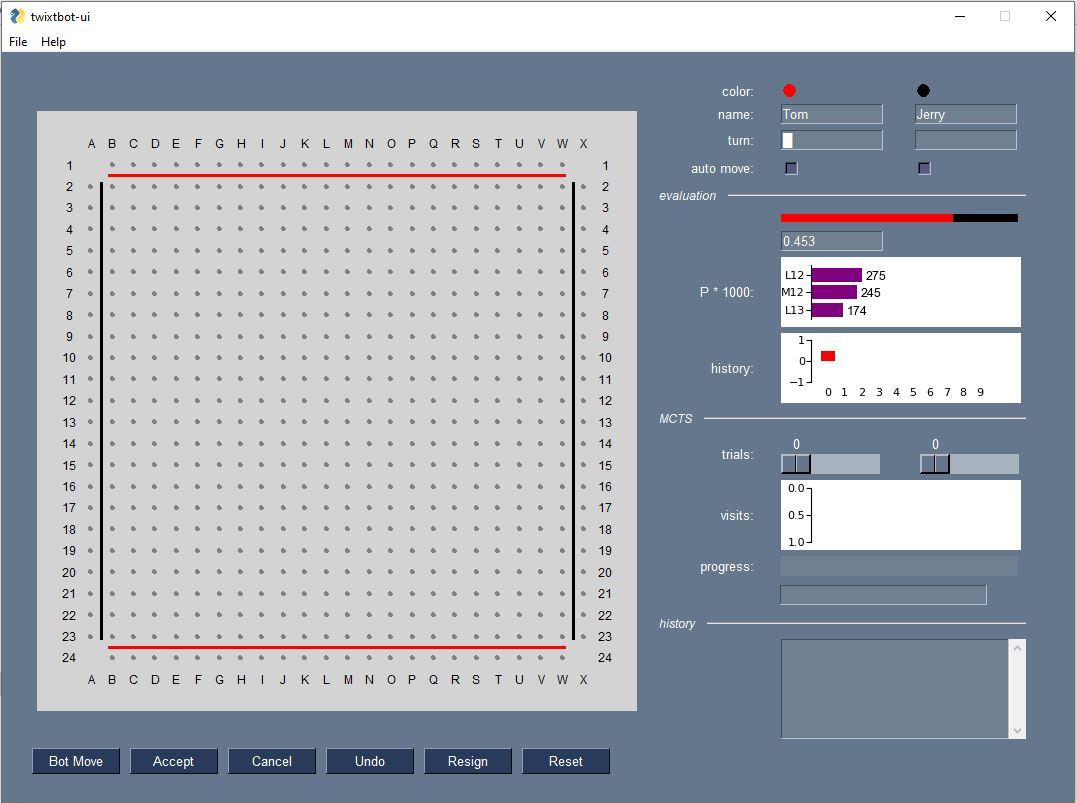
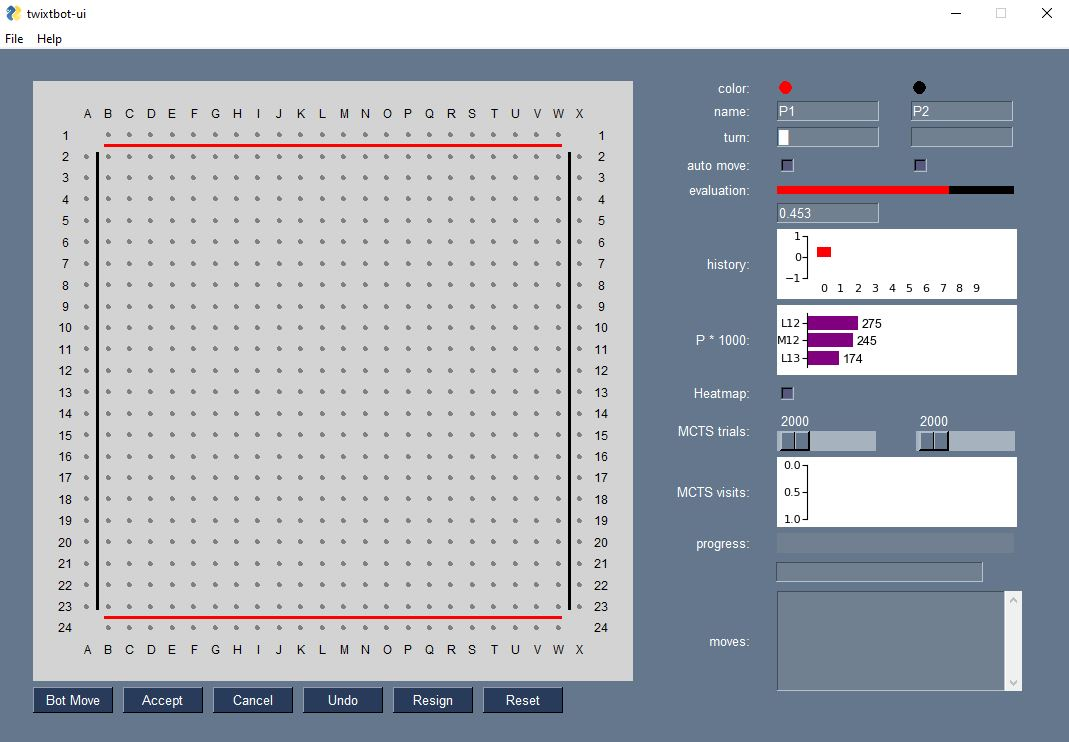
added Heatmap and Save files to README.md (#38)
* added Heatmap and Save files to README.md
* fixed some lint complaints

diff --git a/src/files.py b/src/files.py
@@ -68,12 +68,29 @@ def parse_t1_file(content):
         ValueError: if players or moves data can't be interpreted
 
     Examples:
-        >>> content = ['# File created by T1j', '# T1j is a program to play TwixT (mail@johannes-schwagereit.de)', '1 # version of file-format', 'Player# Name of Player 1', 'Computer# Name of Player 2', '24# y-size of board', '24# x-size of board', 'H# player 1 human or computer', 'C# player 2 human or computer', '1# starting player (1 plays top-down)', 'V# Direction of letters', 'N# pierule?', 'N# game already over?', 'L10', 'L17', 'Q15', 'Q8', 'S12', 'P11', 'O14', 'P19', 'V18', 'U15', 'V16', 'T17', 'U14', 'V17', 'W16', 'W15', 'F16', 'L19', 'F20', 'I14', 'F12', 'X13', 'G14', 'G8', 'I9', 'J9', 'J7', 'E9', 'G10', 'N18', 'J3', 'G20', 'G18', 'E21']
+        >>> content = [
+            '# File created by T1j',
+            '# T1j is a program to play TwixT (mail@johannes-schwagereit.de)',
+            '1 # version of file-format',
+            'Player# Name of Player 1',
+            'Computer# Name of Player 2',
+            '24# y-size of board',
+            '24# x-size of board',
+            'H# player 1 human or computer',
+            'C# player 2 human or computer',
+            '1# starting player (1 plays top-down)',
+            'V# Direction of letters',
+            'N# pierule?',
+            'N# game already over?',
+            'L10', 'L17', 'Q15', 'Q8',  'S12', 'P11', 'O14', 'P19', 'V18', 'U15',
+            'V16', 'T17', 'U14', 'V17', 'W16', 'W15', 'F16', 'L19', 'F20', 'I14',
+            'F12', 'X13', 'G14', 'G8',  'I9',  'J9',  'J7',  'E9',  'G10', 'N18',
+            'J3', 'G20', 'G18', 'E21'
+        ]
         >>> parse_t1_file(content)
-        (['Player', 'Computer'],
-         [l10, l17, q15, q8, s12, p11, o14, p19, v18, u15, v16, t17, u14,
-          v17, w16, w15, f16, l19, f20, i14, f12, x13, g14, g8, i9, j9, j7,
-          e9, g10, n18, j3, g20, g18, e21])
+            (['Player', 'Computer'],
+             [l10, l17, q15, q8,  s12, p11, o14, p19, v18, u15, v16, t17, u14, v17, w16, w15, f16, 
+             l19, f20, i14, f12, x13, g14,  g8, i9,  j9, j7, e9, g10, n18, j3, g20, g18, e21])
     """
     MOVES_STARTLINE = 13
     PLAYER_LINES = [3, 4]
@@ -82,13 +99,13 @@ def parse_t1_file(content):
     try:
         players = [content[linenr].split(COMMENT_CHAR)[0]
                    for linenr in PLAYER_LINES]
-    except:
+    except Exception:
         raise ValueError("Can't read player names from T1 file")
 
     try:
         moves = [str2twixt(move) for move in content[MOVES_STARTLINE:]
                  if len(move) > 0]
-    except:
+    except Exception:
         # Just pass on the exception from str2twixt
         raise
 
@@ -108,9 +125,11 @@ def parse_tsgf_file(content):
         ValueError: if players or moves data can't be interpreted
 
     Examples:
-        >>> content = ['(;FF[4]EV[twixt.ld.DEFAULT]PB[agtoever]PW[Jan Krabbenbos]SZ[24]SO[https://www.littlegolem.net];b[pl];r[ps];b[pr];r[rt];b[ot];r[po];b[pn];r[qq];b[op];r[pg];b[nh];r[oj];b[oi];r[qi];b[nk];r[nf];b[mf])']
+        >>> content = [
+            '(;FF[4]EV[twixt.ld.DEFAULT]PB[agtoever]PW[Jan Krabbenbos]SZ[24]SO[https://www.littlegolem.net];b[pl];r[ps];b[pr];r[rt];b[ot];r[po];b[pn];r[qq];b[op];r[pg];b[nh];r[oj];b[oi];r[qi];b[nk];r[nf];b[mf])'
+        ]
         >>> parse_tsgf_file(content)
-        (['agtoever', 'Jan Krabbenbos'], [p12, p19, p18, r20, o20, p15, p14, q17, o16, p7, n8, o10, o9, q9, n11, n6, m6])
+            (['agtoever', 'Jan Krabbenbos'], [p12, p19, p18, r20, o20, p15, p14, q17, o16, p7, n8, o10, o9, q9, n11, n6, m6])
     """
     PLAYERS_STR = ('PB', 'PW')
     TURN_STR = ('r[', 'b[')
@@ -122,7 +141,7 @@ def parse_tsgf_file(content):
         player_idx = [content[0].find(key) for key in PLAYERS_STR]
         players = [content[0][idx + 3:content[0].find(']', idx)]
                    for idx in player_idx]
-    except:
+    except Exception:
         raise ValueError("Can't read player names from tsgf file")
 
     try:
@@ -130,7 +149,7 @@ def parse_tsgf_file(content):
                      for line in content[0].split(';')
                      if line[:2] in TURN_STR]
         moves = list(map(str2twixt, raw_moves))
-    except:
+    except Exception:
         # Just pass on the exception from str2twixt
         raise
 
@@ -166,7 +185,7 @@ def get_game():
     try:
         with open(file_name, "tr") as f:
             content = list(map(lambda s: s.strip(), f.readlines()))
-    except:
+    except Exception:
         sg.popup_ok(f"Can't open {file_name} as a valid Twixt file.")
         return None, None
 
@@ -193,7 +212,7 @@ def save_game(players=['Player1', 'Player2'],
     Shows a file-save dialog to the user.
     The twixt game given by the function parameters are saved to the file.
     Only .T1 file format is currently supported.
-    Exceptions that occur while saving the file are handled within 
+    Exceptions that occur while saving the file are handled within
     this function.
 
     Args:
@@ -242,7 +261,7 @@ def save_game(players=['Player1', 'Player2'],
     try:
         with open(file_name, "tw") as f:
             f.write('\n'.join(content))
-    except:
+    except Exception:
         sg.popup_ok(f"Can't write {file_name}. Game is NOT saved!")
         return
 

diff --git a/src/heatmap.py b/src/heatmap.py
@@ -4,12 +4,12 @@ import constants as ct
 
 def p_to_rgbstring(p):
     """ Converts a probability ([0..1]) value to an RGB color string
-    
+
     The heatmap is based on 3 anchor points: minimum value (p=0), middle
     value (p=0.5) and maximum value (p=1). Each of those points is related
     to a color, which are defined in constants.py (HEATMAP_RGB_COLORS).
     Intermediate colors are interpolated between those anchor points.
-    
+
     Args:
         p: probability value (range: 0..1, both inclusive)
 
@@ -20,12 +20,12 @@ def p_to_rgbstring(p):
 
     # Determine the colors to be mixed and calculate factor [0..1]
     if p > 0.5:
-        f = 2 * p - 1 
+        f = 2 * p - 1
         col1, col2 = ct.HEATMAP_RGB_COLORS[1:3]
     else:
         f = 2 * p
         col1, col2 = ct.HEATMAP_RGB_COLORS[0:2]
-    
+
     # Apply factor for col1 and col2
     rgb = [int((1 - f) * rgb1 + f * rgb2)
            for rgb1, rgb2 in zip(col1, col2)]
@@ -33,12 +33,13 @@ def p_to_rgbstring(p):
     # convert rgb list to string and return
     return '#' + ''.join(f'{c:02x}' for c in rgb)
 
+
 class Heatmap:
     """ Contains data and functions to plot a heatmap on the Twixt board
 
     The constructor also calculates the heatmap. After the
     constructor is called, it isn't nessecary to call .calculate()
-    
+
     **ALWAYS** instantiate Heatmap with game and bot.
 
     Args:
@@ -48,27 +49,27 @@ class Heatmap:
     Attributes:
         p_values (dict of twixt.Point: str): normalized (0..1) policy values
         rgb_colors (dict of twixt.Point: str): rgb colors
-    
+
     Raises:
         ValueError if the class is initialized without game or bot.
     """
+
     def __init__(self, game=None, bot=None):
         if game is None or bot is None:
             raise ValueError('Instantiate Heatmap with game and bot!')
-            
+
         self.game = game
         self.bot = bot
         self.p_values = {}
         self.rgb_colors = {}
         self.calculate()
 
-
     def heatmap_legend(self, num_steps=ct.HEATMAP_LEGEND_STEPS):
         """ Returns a list of heatmap RGB values for a heatmap legend
-    
+
         Args:
             num_steps: length of the returned list minus 1
-    
+
         Returns:
             a list of RGB strings
         """
@@ -85,8 +86,9 @@ class Heatmap:
         self.p_values = {}
         self.rgb_colors = {}
 
-        sc, self.policy_moves, p_val = self.bot.nm.eval_game(self.game, maxbest=self.game.SIZE**2)
-        for m, p in zip (self.policy_moves, p_val):
+        sc, self.policy_moves, p_val = self.bot.nm.eval_game(
+            self.game, maxbest=self.game.SIZE**2)
+        for m, p in zip(self.policy_moves, p_val):
             if p == 0:
                 # all the rest of the p-values will be 0; break loop
                 break

diff --git a/src/uiboard.py b/src/uiboard.py
@@ -1,4 +1,3 @@
-import numpy
 import itertools
 import PySimpleGUI as sg
 import backend.board as board
@@ -72,7 +71,7 @@ class UiBoard(board.TwixtBoard):
             (self.cell_width * self.offset_factor,
              (self.offset_factor - 2) * self.cell_width),
             ct.BOARD_LABEL_COLOR, ct.BOARD_LABEL_FONT)
-        
+
         # Draw the heatmap
         for i, rgb_col in enumerate(heatmap.heatmap_legend()):
             self.graph.DrawRectangle(
@@ -83,17 +82,19 @@ class UiBoard(board.TwixtBoard):
     def _draw_heatmap(self, heatmap=None):
         if not heatmap:
             return
-        
+
         for move, rgb_color in heatmap.rgb_colors.items():
             # Draw a circle around those moves with a p value
             self.graph.DrawCircle(
                 ((move.x + self.offset_factor) * self.cell_width,
                  (twixt.Game.SIZE - move.y - 1 + self.offset_factor) * self.cell_width),
-                self.hole_radius * (1 + ct.HEATMAP_RADIUS_FACTOR * ct.HEATMAP_CIRCLE_FACTOR),
+                self.hole_radius *
+                (1 + ct.HEATMAP_RADIUS_FACTOR * ct.HEATMAP_CIRCLE_FACTOR),
                 None, ct.HEATMAP_CIRCLE_COLOR)
 
             radius = self.hole_radius
-            radius *= (1 + ct.HEATMAP_RADIUS_FACTOR * heatmap.p_values[move] ** 0.5)
+            radius *= (1 + ct.HEATMAP_RADIUS_FACTOR *
+                       heatmap.p_values[move] ** 0.5)
 
             # Draw colored circle
             self.graph.DrawCircle(

diff --git a/src/layout.py b/src/layout.py
@@ -123,10 +123,12 @@ def row_moves():
                          text_color=ct.OUTPUT_TEXT_COLOR, autoscroll=True,
                          key=ct.K_MOVES[1], disabled=True, size=(28, 6))]
 
+
 def row_heatmap():
     return [text_label(ct.K_HEATMAP[0]),
-                    sg.Checkbox(
+            sg.Checkbox(
         text="", enable_events=True, default=False, key=ct.K_HEATMAP[1],  size=(7 + ct.OFFSET, 1))]
+
 
 class MainWindowLayout():
 

diff --git a/src/tbui.py b/src/tbui.py
@@ -326,7 +326,7 @@ class TwixtbotUI():
                 self.execute_move(m)
                 self.calc_eval()
                 # self.update_after_move()
-        except:
+        except Exception:
             lt.popup("invalid move: " + str(m))
 
         self.update_after_move()

diff --git a/README.md b/README.md
@@ -11,7 +11,7 @@ twixtbot-ui comes with all the neccessary twixtbot files in subfolder `./backend
 
 ## Get started
 
-clone or download this repository and make sure you have Python 3.6, 3.7 or 3.8 installed including pip. At the command line, change to the twixtbot-ui directory and install the necessary modules:
+Clone or download this repository and make sure you have Python 3.6, 3.7 or 3.8 installed including pip. At the command line, change to the twixtbot-ui directory and install the necessary modules:
 
 
 ```
@@ -30,8 +30,6 @@ python tbui.py
 ```
 
 Ignore the tensorflow warnings and confirm the pop-up message that says that a settings file will be created. Wait a few seconds until the bots have been initialized. You should see the GUI with a clean TwixT board and the control bar on the right:
-
-
 
 
 ![Empty TwixT board](img/EmptyBoard.JPG)
@@ -55,7 +53,13 @@ Note that the network was trained with self-crossing links allowed, which can le
 
 ### Evaluation
 
-Before each move, the bot evaluates the board. The value head of the network returns a value in range [-1.0..1.0] that indicates the probability for a win of player1 and player2, resp. The policy head returns a value in range [0..1] for each legal move. A bar chart shows the top three moves. Parameter *temperature* [0, 0.5, 1.0] influences the policy, i.e. which move is picked. If *temperature* = 0 (default) the move with the highest value will be chosen.
+Before each move, the bot evaluates the board. The value head of the network returns a value in range [-1.0..1.0] that indicates the probability for a win of player1 and player2, resp. The control bar displays the current and past evaluations.<br>
+The policy head returns a value in range [0..1] for each legal move. A bar chart on the right shows the top three moves. Switch on the *Heatmap* checkbox below the bar chart to visualize all p-values > 0. The bigger and greener the spots, the better the p-value. There color coding is:
++ light green: close to 100% of best p
++ light blue: close to 50% of best p
++ dark blue: close to 0% of best p<br>
+
+![Heatmap](img/Heatmap.JPG)
 
 ### MCTS
 
@@ -69,9 +73,10 @@ Note that for the first move and the swap move the bot does not use MCTS.
 
 human players *swap* by clicking on the first peg. The peg will be replaced by a black peg, mirrored at the diagonal. twixtbot has its own swap policy (see `./backend/swapmodel.py`). The bot will swap any first move on row 7 to 18 plus moves B6, C6, V6, W6, B19, C19, V19, W19.
 
+
 ### Undo, Resign, Reset
 
-Click these buttons to undo the last move, resign a game or start a new game, resp. You cannot click these buttons during MCTS. You cannot undo a move if the game is over. 
+Click these buttons to undo the last move, resign a game or start a new game, resp. You cannot click these buttons during MCTS.
 
 ### File | Settings...
 
@@ -113,13 +118,13 @@ Decrease c<sub>puct</sub> to move the needle towards exploitation, i.e reduce th
 
 [This site](https://medium.com/oracledevs/lessons-from-alphazero-part-3-parameter-tweaking-4dceb78ed1e5) has more details on temperature, dirichlet noise and cpuct.
 
-### File | Open File...
+### Loading and saving games 
 
-You can load games stored in [T1j](http://www.johannes-schwagereit.de/twixt/T1j/index.html) file format (\*.T1) or littlegolem.net format (\*.tsgf). After a game is loaded, the player names and the board are updated and you can continue to play as usual or undo (but not redo) moves. See sample files in folder `./games`. Note that the value of *self crossing links* is applied when loading a game.
+Choose *File -> Open File...* to load games stored in [T1j](http://www.johannes-schwagereit.de/twixt/T1j/index.html) file format (\*.T1) or littlegolem.net format (\*.tsgf). It will take a few seconds to re-calculate the evaluation history. After a game is loaded, the player names and the board are updated and you can continue to play as usual or undo moves. See sample files in folder `./games`. Note that the value of *self crossing links* is applied when loading a game. Choose *File -> Save file...* to save a game in T1J format; tsgf is not supported as a target. 
 
-#### *.T1j
+#### T1J files
 
-All rows except those for moves and player names are ignored. Each game is considered "unswapped" with player 1 to start. You can prepare T1j-like files in an editor: The first 13 lines need to be comments except lines 4 and 5 for the player names. Append one line per move in upper or lower case with *swap* and *resign* being valid moves. Note that these files cannot be read by T1j.
+When reading a T1J file all rows except those for moves and player names are ignored. Each game is considered "unswapped" with player 1 to start. You can prepare T1J-like files in an editor: The first 13 lines need to be comments except lines 4 and 5 for the player names. Append one line per move in upper or lower case with *swap* and *resign* being valid moves. Note that these files cannot be read by T1J.
 
 ```
 #
@@ -142,11 +147,7 @@ H18
 P12
 resign
 ```
- 
-#### *.tsgf
-
-This file format is used when a TwixT game is saved at [littlegolem.net](https://littlegolem.net/jsp/games/gamedetail.jsp?gtid=twixt).
- 
+  
 ### Contributors
 
 * [agtoever](https://github.com/agtoever)
